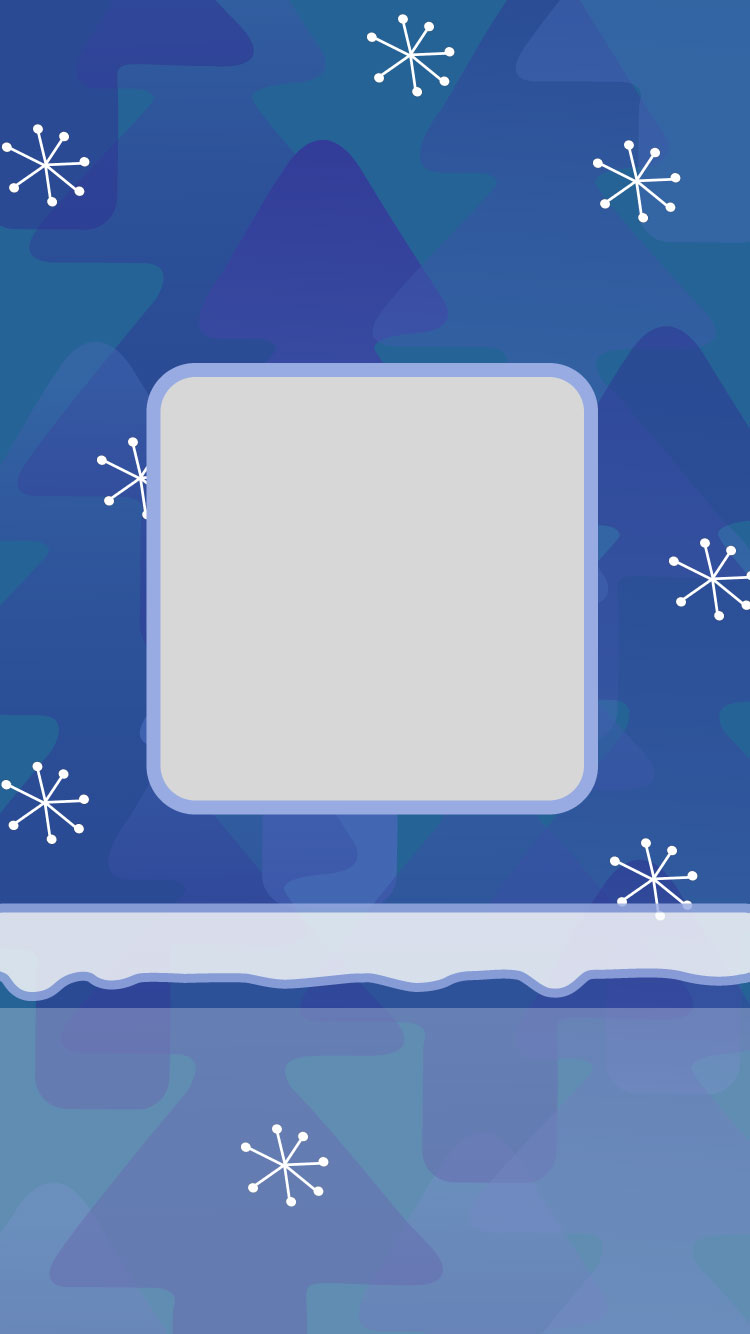
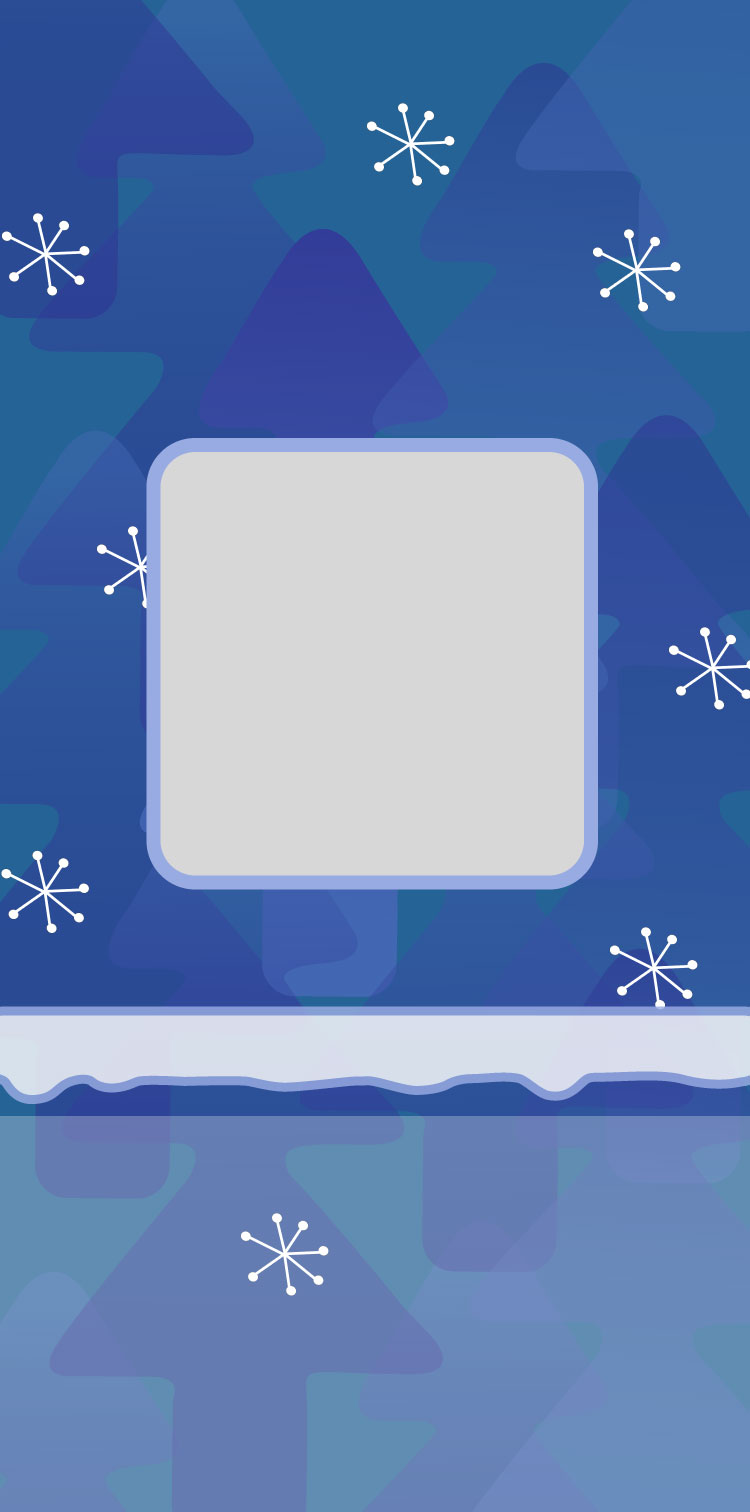
edit change

diff --git a/html/edit.html b/html/edit.html
@@ -14,17 +14,15 @@
     }
 
     body{
-        background-image: url('../static/edit.jpg');
+        background-image: url('../static/bg.jpg');
         background-repeat: no-repeat;
-        background-size: contain;
+        background-size: cover;
     }
 
     #back-btn {
         position: absolute;
         top: 20px;
         left: 20px;
-        width: 31px;
-        height: 21px;
     }
 
     #submit-btn {
@@ -44,14 +42,14 @@
     .window{
         position: relative;
         text-align: center;
-        top: calc(28% + 3px);
+        top: calc(25% + 3px);
         padding-right: 3px;
     }
 
     #bg-pic, #upload-img, #final-avator{
         box-sizing: border-box;
-        width: 230px;
-        height: 230px;
+        width: 200px;
+        height: 200px;
         border-radius: 1.1em;
         margin: 0 auto;
         overflow: hidden;
@@ -59,8 +57,8 @@
 
     #bg-pic > img, #final-avator > img {
         position: absolute;
-        width: 230px;
-        height: 230px;
+        width: 200px;
+        height: 200px;
         margin-left: -115px;
         border-radius: 1.1em;
         z-index: -1;
@@ -89,6 +87,8 @@
 
     #upload-img {
         cursor: pointer;
+        background-image: url('../static/square.png');
+        background-size: cover;
     }
 
     #upload-img::before {
@@ -98,7 +98,7 @@
         width: 3px;
         border-radius: 3px;
         background: #3b4e9e;
-        margin: 65px 0 0 114px;
+        margin: 65px 0 0 100px;
     }
 
     #upload-img::after {
@@ -108,14 +108,16 @@
         height: 3px;
         border-radius: 3px;
         background: #3b4e9e;
-        margin: 99px 0 0 -148px;
+        margin: 100px 0 0 -136px;
     }
 
     #upload-img > span {
         display: inline-block;
         position: absolute;
         top: 150px;
-        left: 168px;
+        left: 0;
+        right:0;
+        margin:auto;
         color: #3b4e9e;
         font-size: 19px;
         font-weight: bold;
@@ -133,14 +135,17 @@
         align-items: center;
         bottom: 0;
         width: 100%;
-        height: 180px;
+        height:200px;
         overflow-x: scroll;
+        background-color: rgba(255,255,255,0.4);
+
     }
 
     .slide > div {
         flex-shrink: 0;
-        width: 110px;
-        height: 110px;
+        width: 28%;
+        height:0;
+        padding:14% 0;
         background: rgba(59, 79, 159, 0.7);
         border-radius: 100%;
         border: none;
@@ -162,16 +167,24 @@
         position: absolute;
         display: flex;
         justify-content: space-around;
-        width: 100%;
-        bottom: 200px;
+        width: 100%;      
+        bottom: 180px;
+        background-image: url("../static/border.png");
+        background-size: cover;
+        background-position: center;
+        background-repeat: no-repeat;
+        height:50px;
     }
 
     .tags > div  {
+        position: relative;
+        top:5px;
         width: 30%;
         height: 30px;
         background-repeat: no-repeat;
         background-size: contain;
         background-position-x: center;
+
     }
 
     #final-background {
@@ -234,19 +247,19 @@
 </style>
 <body>
     <div id="final-background"></div>
-    <button id="back-btn" onclick="window.go(-1)">
-        <img src="../static/back-icon.png" width="30" height="30">
-    </button>
+        <img id="back-btn" src="../static/back-icon.png" width="30" height="30"onclick="window.go(-1)">
     <button id="submit-btn" onclick="submitImg()">完成</button>
     <div class="window">
+
         <div id="upload-img">
             <input id="upload-input" type="file" accept="image/*">
-            <span>选择头像</span>
+            <span class="word">选择头像</span>
         </div>
         <div id="bg-pic" style="display: none"></div>
         <div id="final-avator" style="display: none"></div>
     </div>
     <div class="tags" id="tags-div">
+        
         <div id="hat" class="hat-active" onclick="changeTagActive('hat')"></div>
         <div id="elk" class="elk-none" onclick="changeTagActive('elk')"></div>
         <div id="oji" class="oji-none" onclick="changeTagActive('oji')"></div>

diff --git a/html/explain.html b/html/explain.html
@@ -7,8 +7,8 @@
 
 <style>
 html,body{
-    background-image: url('../static/bg-explain.jpg');
-    background-size:contain;
+    background-image: url('../static/bg.jpg');
+    background-size:cover;
     background-repeat: repeat;
     width: 100%;
     height: 100%;
@@ -16,16 +16,27 @@ html,body{
     padding:0;
 }
 
+.explain{
+    position: absolute;
+    top:10%;
+    width:80%;
+    margin:auto;
+    left:0;
+    right:0;
+    
+}
 .btn{
-    position: fixed;
+    position: absolute;
     width:150px;
-    top:620px;
-    left:30%;
-
+    margin:auto;
+    top:80%;
+    left:0;
+    right:0;
 }
 </style>
 
 <body>
+<image class="explain" src="../static/word.png"></image>
 <image class="btn" src='../static/start.png' onclick="window.location.href='main.html'"></button>
 </body>
 </html>
